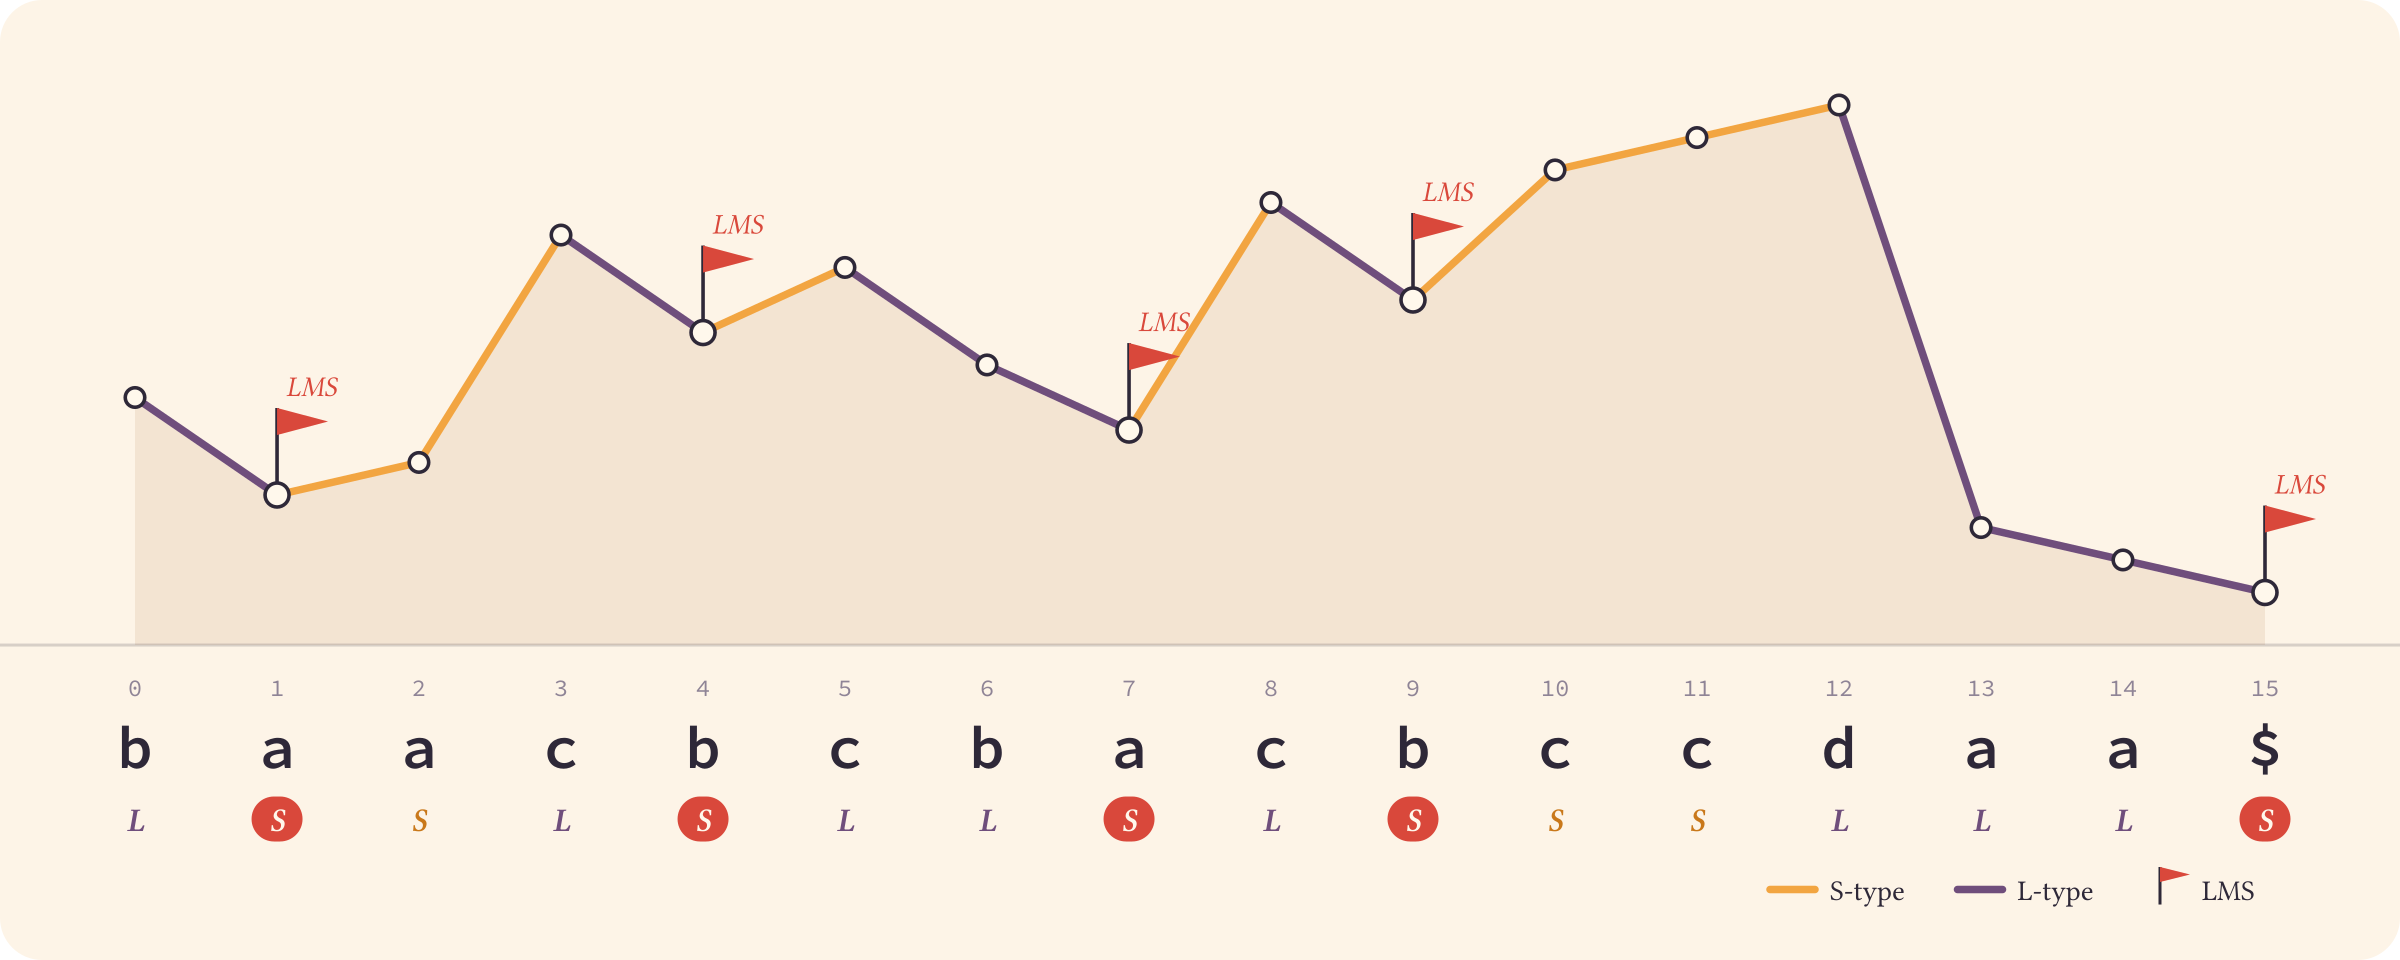
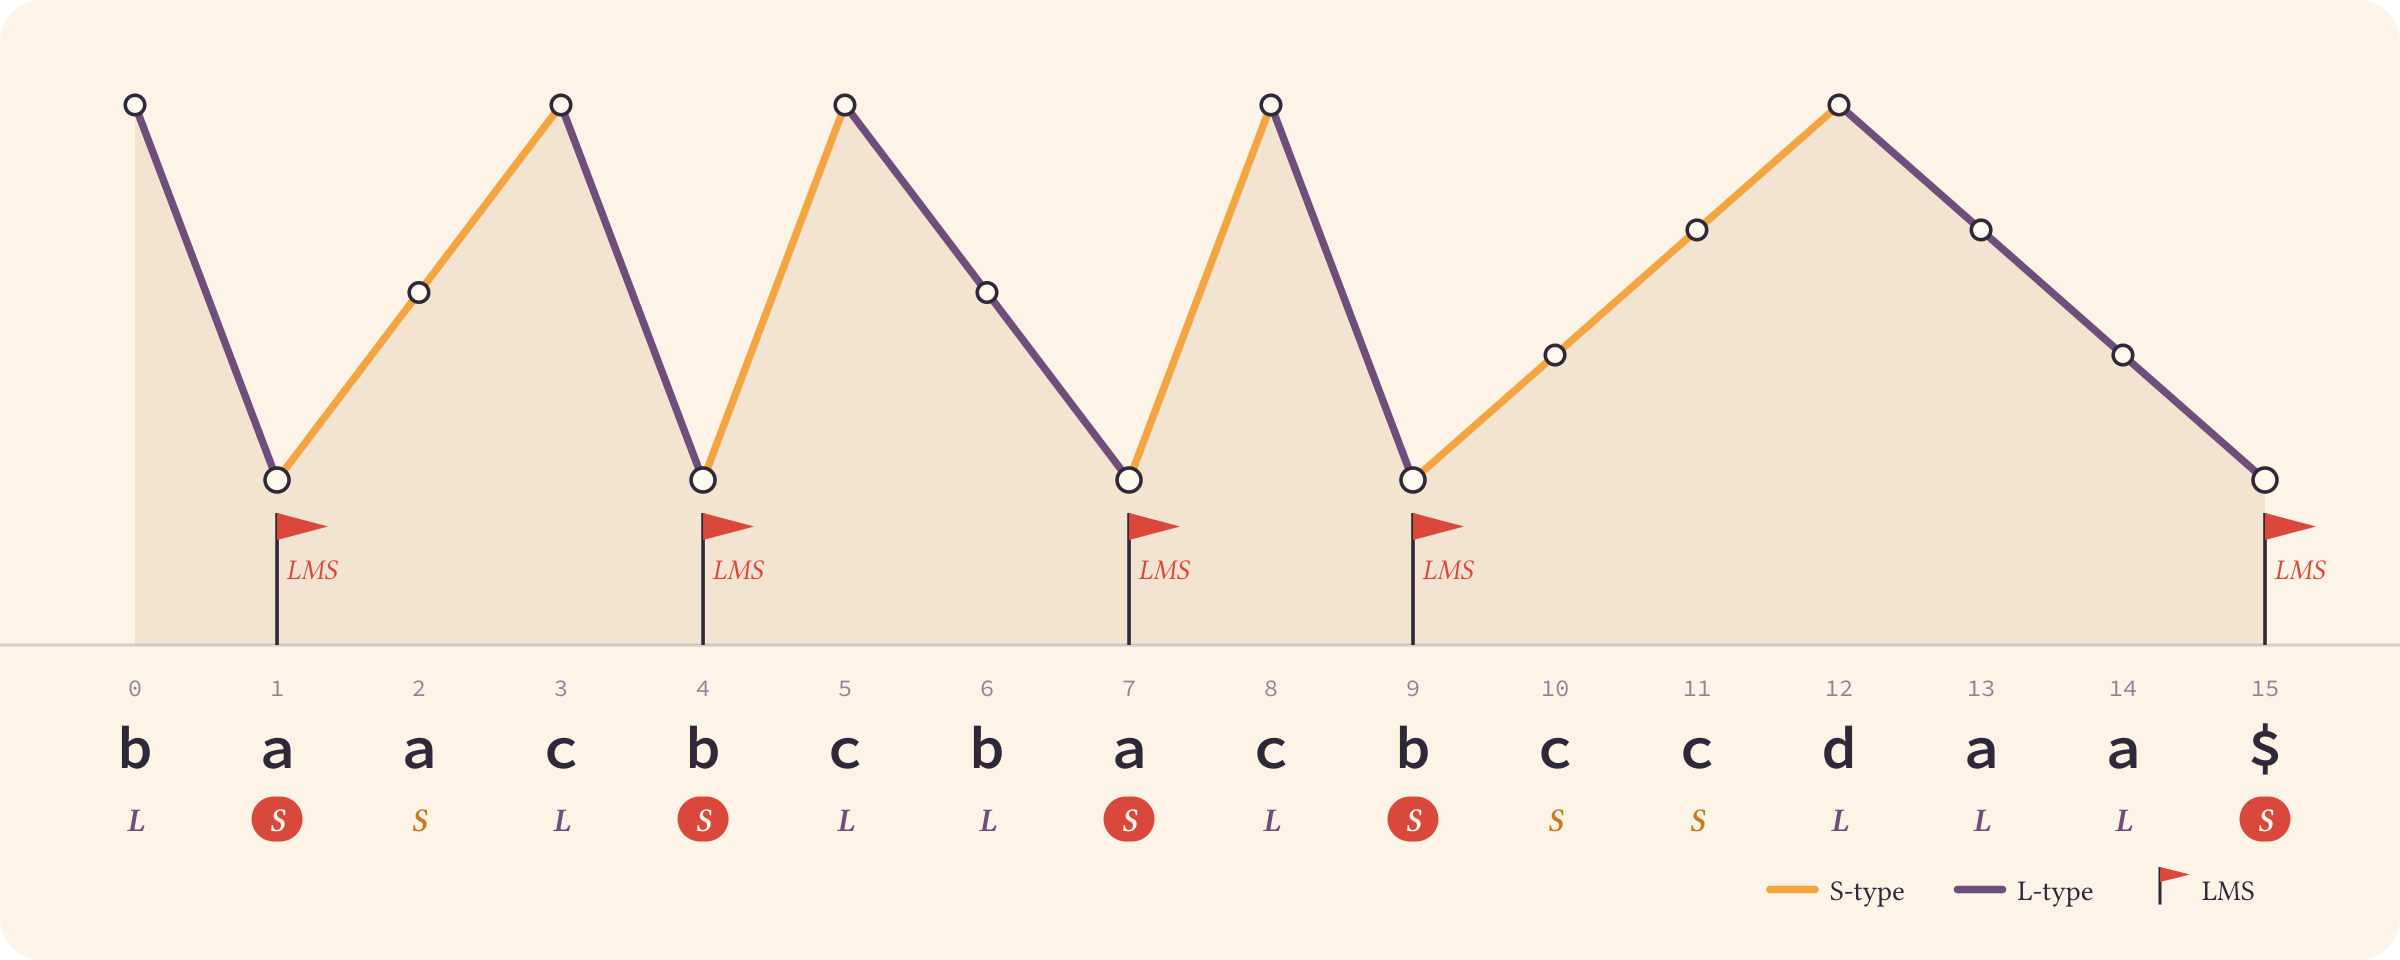
SAIS

diff --git a/src/lib/markdown.ts b/src/lib/markdown.ts
@@ -4,6 +4,9 @@
 
 const HLJS_CPP_ALIASES = ['cpp', 'c++', 'cc', 'cxx', 'hpp', 'hxx'];
 
+// Fences used for pseudocode: no grammar is loaded, we only colour `#` comments.
+const PSEUDO_ALIASES = ['pseudo'];
+
 let cached: Promise<any> | null = null;
 
 export function getRenderer(): Promise<any> {
@@ -28,6 +31,11 @@ async function build(): Promise<any> {
         try {
           return `<pre class="hljs"><code>${hljs.highlight(str, { language: 'cpp' }).value}</code></pre>`;
         } catch {}
+      }
+      if (PSEUDO_ALIASES.includes(norm)) {
+        // escapeHtml never emits '#', so matching after escaping is safe
+        const body = md.utils.escapeHtml(str).replace(/#.*$/gm, '<span class="pseudo-comment">$&</span>');
+        return `<pre class="hljs"><code>${body}</code></pre>`;
       }
       return `<pre class="hljs"><code>${md.utils.escapeHtml(str)}</code></pre>`;
     },

diff --git a/src/styles/global.css b/src/styles/global.css
@@ -113,6 +113,11 @@ main::-webkit-scrollbar-thumb:hover {
   font-family: var(--font-mono);
 }
 
+/* Comments in pseudocode fences (see src/lib/markdown.ts) */
+.hljs .pseudo-comment {
+  color: #7ee787;
+}
+
 /* MathJax overflow/wrapping safeguards */
 /* Ensure inline/display math never forces the page wider than the viewport */
 mjx-container {

diff --git a/src/content/algo/theory/sais.md b/src/content/algo/theory/sais.md
@@ -204,7 +204,7 @@ Also recall theorem 2.4. The buckets in the SA for $T$ take the following form.
 <figure style="text-align: center;">
   <img
     src="/assets/sais/bucket-view.png"
-    alt="Suffix array of baacbcbacbccdaa$ split into buckets by first character ($, a, b, c, d), with L-type suffixes before S-type suffixes inside each bucket"
+    alt="Bucket structure of the suffix array of baacbcbacbccdaa$: slots split into buckets by first character ($, a, b, c, d), with L-type suffixes before S-type suffixes inside each bucket"
     style="display: block; margin: 0 auto;"
   >
   <figcaption>
@@ -361,7 +361,7 @@ What if we could do the following at the same time?:
 
 Effectively (and I switch to pseudo-code now):
 
-```python
+```pseudo
 A = [-1] * (n + 1)
 for i from 0 to n:
   if (A[i] != -1) and (A[i] is L or LMS type):
@@ -385,7 +385,7 @@ In particular, we can already modify procedure 2 to run in linear time *for the 
 <details><summary class ="spoiler-summary">Procedure 2.5</summary>
 <div class = "spoiler-content">
 
-```python
+```pseudo
 A = [-1] * (n + 1)
 
 put {S[i], i} for all LMS-type i into heap H
@@ -535,7 +535,7 @@ Let's think outside the box. The observant reader will remember that the number 
 
 Let's imagine a magical procedure `compress(T)` which gives us such a $T'$ *in linear time*. Then we can define `SA(T)`, which computes the SA of $T$ (assuming that $T$ satisfies the conditions in section 1) in the following manner:
 
-```python
+```pseudo
 #input T satisfies properties from section 1
 SA(T):
   N = |T|
@@ -625,7 +625,7 @@ Okay, so we've finally found a suitable definition for $R$ - $R(P_i) = \vert \lb
 
 What if we just sort full LMS substrings in alex order, and then label them? Namely, compute an array $X$ of length $m$ where $P_{X_i} \preceq P_{X_j} \forall i \leq j$, and $X_i$ is an LMS position in $T$ for all $i$. Consider the following procedure:
 
-```python
+```pseudo
 N = |T|
 
 somehow compute X
@@ -709,7 +709,7 @@ Now, let's try to adapt our old procedure 2 to produce $C$:
 <details><summary class ="spoiler-summary">Procedure 5</summary>
 <div class = "spoiler-content">
 
-```python
+```pseudo
 C = [-1] * (n + 1)
 
 put {T[i, i], i} for all LMS-type i into heap H, which uses the alex comparator
@@ -752,7 +752,7 @@ The observant reader will have noticed that our arguments have been almost ident
 <details><summary class ="spoiler-summary">Procedure 5.5</summary>
 <div class = "spoiler-content">
 
-```python
+```pseudo
 C = [-1] * (n + 1)
 
 put {T[i, i], i} for all LMS-type i into heap H
@@ -839,7 +839,7 @@ And... we end up with $C$, correctly and efficiently computed.
 
 Let's finally assemble our algorithm from the pieces we've painstakingly built:
 
-```python
+```pseudo
 # T satisfies conditions from section 1
 SA(T):
   N = |T|

diff --git a/site-reference.md b/site-reference.md
@@ -190,7 +190,7 @@ Worth its own section because the choices here are non-obvious.
 - **Frontmatter parsing.** A small custom YAML parser in `src/lib/frontmatter.ts` (`parseFrontmatter`, shared by `ContentPane` and `prerender.ts`) handles `key: value`, quoted strings, and one-line `[a, b]` lists. That's the entire surface we use; no need for a YAML library.
 - **Build-time vs runtime rendering.** The same `getRenderer()` runs in Node at build time (`prerender.ts`) and in the browser after client-side navigation, so output is identical and hydration is a no-op. Only markdown pages are pre-rendered; musings and raw `.html` pages stay client-only (see §4).
 - **Renderer.** `src/lib/markdown.ts` exports a single async `getRenderer()` that lazily builds a `markdown-it` instance with:
-  - `highlight.js` (core only, C++ language registered — aliases `cpp`, `c++`, `cc`, `cxx`, `hpp`, `hxx`). Other code blocks are escaped, not highlighted, to keep the bundle small.
+  - `highlight.js` (core only, C++ language registered — aliases `cpp`, `c++`, `cc`, `cxx`, `hpp`, `hxx`). Other code blocks are escaped, not highlighted, to keep the bundle small. The exception is pseudocode fences (`pseudo`): no grammar is loaded, but `#` comments up to end of line are wrapped in `<span class="pseudo-comment">` and coloured green in `global.css`.
   - A small inline-rule plugin that wraps `$...$`, `$$...$$`, `\(...\)`, `\[...\]` segments as `html_inline` tokens. This stops markdown-it from interpreting `_` inside math as emphasis.
 - **MathJax.** Loaded on demand from the CDN (`cdn.jsdelivr.net/npm/mathjax@4/tex-chtml.js`) the first time a non-home page renders, configured with `displayOverflow: 'linebreak'` and `linebreaks: { inline: true, width: '100%' }` so long equations wrap on mobile.
 - **Inline `<script>` execution.** For raw `.html` pages, `ContentPane.executeScripts()` clones each `<script>` element into a fresh node so the browser actually runs it (otherwise `innerHTML`-injected scripts are inert).
